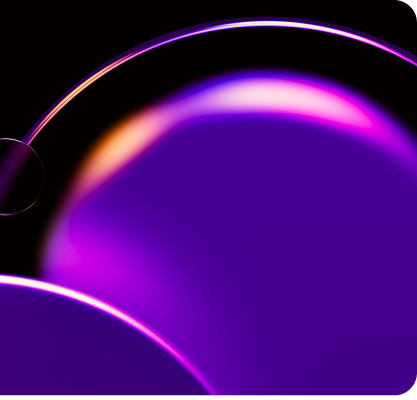
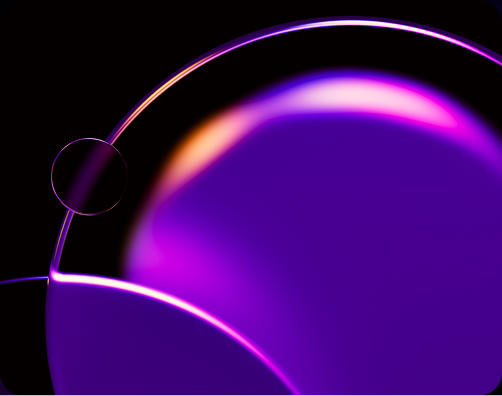
feat: front setting 1

diff --git a/frontend/src/pages/Landing/Landing.jsx b/frontend/src/pages/Landing/Landing.jsx
@@ -2,31 +2,39 @@ import React from 'react'
 import './Landing.scss'
 import Button from '@/components/ui/Button'
 import { NavLink } from 'react-router-dom'
-const bgImages =[
-  './images/landing-sl-1.png',
-  './images/landing-sl-2.png'
+const bgImages = [
+    './images/landing-sl-1.png',
+    './images/landing-sl-2.png',
+    './images/landing-sl-3.png'
 ]
 const Landing = () => {
-  return (
-    <section className='landing'>
-
-      <div className="inner">
-        <div className="t-wrap">
-          <img src="/images/landing-img.png" alt="img" />
-          <h2>
-            <img src="/images/logo.svg" alt="logo" />
-          </h2>
-          <p>
-            사진 한장. 한줄 메모. 검색. 공유까지 - Picstory
-          </p>
-        </div>
-        <NavLink>
-          <Button text='시작하기' className='intro' icons={true}/>
-        </NavLink>
-     
-      </div>
-    </section>
-  )
+    return (
+        <section className='landing'>
+            <div className="landing-bg">
+                <div className="bg-track">
+                    {[...bgImages, ...bgImages].map((src, i)=>(
+                        <div key={i} className='bg-item'>
+                            <img src={src} alt="bg" />
+                        </div>
+                    ))}
+                </div>
+            </div>
+            <div className="inner">
+                <div className="t-wrap">
+                    <img src="/images/landing-img.png" alt="img" />
+                    <h2>
+                        <img src="/images/logo.svg" alt="logo" />
+                    </h2>
+                    <p>
+                        사진 한장. 한줄 메모. 검색. 공유까지 - Picstory
+                    </p>
+                </div>
+                <NavLink to="/login">
+                    <Button text="시작하기" className='intro' icons={true} />
+                </NavLink>
+            </div>
+        </section>
+    )
 }
 
 export default Landing

diff --git a/frontend/src/pages/Auth/Login.jsx b/frontend/src/pages/Auth/Login.jsx
@@ -1,9 +1,55 @@
-import React from 'react'
+import React, { useState } from "react";
+import Button from "../../components/ui/Button";
+import "./Login.scss";
+import Input from "@/components/ui/Input";
+import { Link, Navigate, useNavigate } from "react-router-dom";
 
 const Login = () => {
-  return (
-    <div>Login</div>
-  )
-}
 
-export default Login
+  const navigate = useNavigate()
+  const [form, setForm]=useState({
+    email:'',
+    password:'',
+  })
+
+  const [error, setError]=useState('')
+  const [isLoading, setIsLoading]=useState(false)
+
+  const handleBack = ()=>{
+    navigate(-1)
+  }
+
+  return (
+    <section className="login">
+      <div className="inner">
+        <div className="login-box">
+
+        <nav>
+          <h2>로그인</h2>
+          <Button text="뒤로가기"
+          className="back"
+          onClick={handleBack} />
+        </nav>
+        <form className="login-form">
+          <div className="form-group">
+            <Input type="email" placeholder="이메일을 입력하세요." />
+            <Input type="password" placeholder="비밀번호를 입력하세요." />
+          </div>
+          <div className="login-btn-wrap">
+            <Button text="로그인" type="submit" className="primary" />
+          </div>
+        </form>
+
+        <div className="signup-now">
+          <span>계정이 없으신가요?</span>
+          <Link to="/signup">
+            <Button text="회원가입하기" icons />
+          </Link>
+        </div>
+      </div>
+        </div>
+    </section>
+  );
+};
+
+export default Login;

diff --git a/frontend/src/pages/Landing/Landing.scss b/frontend/src/pages/Landing/Landing.scss
@@ -1,0 +1,66 @@
+.landing {
+    height: 100vh;
+    .landing-bg {
+        position: absolute;
+        overflow: hidden;
+        top: 50%;
+        transform: translateY(-50%);
+        height: 400px;
+        z-index: -1;
+
+        .bg-track {
+            display: flex;
+            height: 100%;
+            width: 100%;
+            animation: marquee 40s linear infinite alternate;
+            will-change: transform;
+            gap: 2rem;
+            div {
+                position: relative;
+                flex:0 0 25%;
+                height: 100%;
+                object-fit: cover;
+                overflow: hidden;
+                >img {
+                    width: 100%;
+                    height: 100%;
+                }
+                
+                &::after{
+                    content:"";
+                    position: absolute;
+                    width: 100%;
+                    height: 100%;
+                    background-color: #00000065;
+                    display: block;
+                    z-index: 0;
+                    top:0;
+                    left: 0;
+                }
+            }
+        }
+    }
+    .inner {
+        display: flex;
+        justify-content: center;
+        align-items: center;
+        flex-direction: column;
+        .intro {
+            position: absolute;
+            top: 50%;
+            left: 100px;
+        }
+    }
+}
+
+
+@keyframes marquee {
+    0% {
+        transform: translateX(0);
+    }
+    
+    100% {
+        transform: translateX(-50%);
+    }
+
+}

diff --git a/frontend/src/components/ui/Input.jsx b/frontend/src/components/ui/Input.jsx
@@ -1,9 +1,40 @@
-import React from 'react'
+import React from "react";
+import "./Input.scss";
 
-const Input = () => {
+const Input = ({ 
+  type="text", 
+  placeholder, 
+  name,
+  value, 
+  onChange, 
+  onBlur, 
+  error,
+  label,
+  icon,
+  disabled=false,
+  className='',
+  ...props 
+}) => {
   return (
-    <div>Input</div>
-  )
-}
+    <div className="input-group">
+      {label && <label className="input-label">{label}</label>}
+      <div className="input-wrapper">
+        {icon && <span className="input-icon">{icon}</span>}
+        <input 
+          type={type} 
+          name={name}
+          value={value}
+          placeholder={placeholder} 
+          onChange={onChange}
+          onBlur={onBlur}
+          disabled={disabled}
+          className="input-field"
+          {...props} 
+        />
+      </div>
+      {error && <p className="input-error">{error}</p>}
+    </div>
+  );
+};
 
-export default Input
+export default Input;

diff --git a/frontend/src/components/ui/Button.scss b/frontend/src/components/ui/Button.scss
@@ -1,0 +1,40 @@
+@use "@/styles/variables" as *;
+
+.btn {
+    display: inline-flex;
+    align-items: center;
+    justify-content: center;
+    position: relative;
+    gap: $btn-gap;
+    padding: $btn-padding-y $btn-padding-x;
+    border-radius: $r-lg;
+    border: 1px solid transparent;
+    font-size: $btn-font-size;
+    font-weight: $btn-font-weight;
+    color: $fg;
+    cursor: pointer;
+    transition: $ease;
+    background: transparent;
+
+    img {
+        width: $btn-icon-size;
+        transition: transform $ease;
+    }
+
+    &:hover {
+        transform: translateX($btn-icon-move);
+        img {
+            transform: translateX($btn-icon-move);
+        }
+    }
+
+    &.intro {
+        border: 1px solid $purple;
+        background: linear-gradient(90deg, $purple, $purple-2);
+
+        &:hover {
+            background: linear-gradient(0deg, $purple, $purple-2);
+            box-shadow: $shadow-intro;
+        }
+    }
+}

diff --git a/frontend/src/pages/Auth/Login.scss b/frontend/src/pages/Auth/Login.scss
@@ -1,0 +1,37 @@
+@use "@/styles/variables" as *;
+
+.login {
+    height: 100vh;
+    .inner {
+        display: flex;
+        justify-content: center;
+        align-items: center;
+        flex-direction: column;
+        .login-box{
+            // flex: 1;
+            width: 100%;
+            nav {
+                display: flex;
+                justify-content: space-between;
+                align-items: center;
+            }
+            .login-form {
+                margin:  $space-lg 0;
+
+                .login-btn-wrap {
+                    margin-top: $space-lg;
+                }
+            }
+
+            .signup-now{
+                display: flex;
+                align-items: center;
+                justify-content: flex-end;
+                gap:$space-md;
+                span {
+                    color:$muted;
+                }
+            }
+            }
+    }
+}

diff --git a/frontend/src/components/ui/Input.scss b/frontend/src/components/ui/Input.scss
@@ -1,0 +1,30 @@
+@use "@/styles/variables" as *;
+
+.input-group {
+    width: 100%;
+    display: flex;
+    flex-direction: column;
+    gap: 6px;
+
+    .input-field {
+        width: 100%;
+        padding: $space-sm $space-md;
+        border: none;
+        border-radius: 0;
+        background-color: transparent;
+        border-bottom: 1px solid $line;
+        color: $fg;
+        font-size: $text-sm;
+        outline: none;
+        transition: $ease;
+
+        &::placeholder {
+            color: $muted;
+        }
+        &:focus {
+            border-color: $purple;
+            background: $bg-hover;
+            box-shadow: 0 0 0 2px rgba($purple, .15);
+        }
+    }
+}

diff --git a/frontend/src/app/router.jsx b/frontend/src/app/router.jsx
@@ -2,7 +2,7 @@ import React from 'react'
 import { createBrowserRouter } from 'react-router-dom'
 import ProtectApp from './ProtectApp'
 import PublicLayout from './PublicLayout'
-import Landing from '../pages/landing/Landing'
+import Landing from '../pages/Landing/Landing'
 import Login from '../pages/auth/Login'
 import Signup from '../pages/auth/Signup'
 import Dashboard from '../pages/dashboard/Dashboard'

diff --git a/frontend/src/components/ui/Button.jsx b/frontend/src/components/ui/Button.jsx
@@ -1,11 +1,13 @@
 import React from 'react'
+import './Button.scss'
 
 const Button = ({
   text,
   className,
-  icons}) => {
+  icons,
+  onClick}) => {
   return (
-    <button className={`btn ${className}`}>
+    <button onClick={onClick} className={`btn ${className}`}>
       {text}
       {icons && <img src='/images/arrow.svg'/>}
     </button>

diff --git a/frontend/src/styles/_variables.scss b/frontend/src/styles/_variables.scss
@@ -59,7 +59,7 @@ $space-xl: 36px;
 // =============================
 // Shadow
 // =============================
-
+$shadow-intro: 0 20px 60px rgba(0, 0, 0, 0.747);
 $shadow: 0 20px 60px rgba(0, 0, 0, 0.35);
 $shadow-sm: 0 8px 10px rgba(0, 0, 0, 0.35);
 
